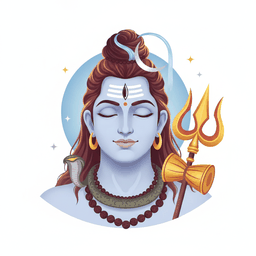
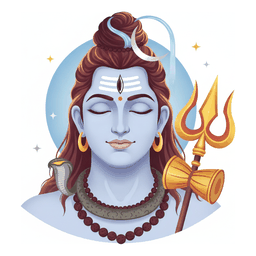
Rebuild home against the shipping Bizzing Bee, and add generated art
I had been designing against design-pack/*.png and the repo's spellbound-app,
both of which are weeks stale — the "Choose a world" step I copied has since
been dropped. bizzingbee.com is blocked by this environment's egress policy,
but origin/gh-pages of the Bizzing-Bee repo is the deployed build, so I ran
that and rendered its real home.

Patterns taken (adapted, not copied):
- a compact status row instead of three equal cards: greeting with the buddy
  actually saying something, a multi-metric goal card, and a rotating nugget
- two large journey cards with full-bleed painted headers, a corner chip and a
  progress pill — the strongest device on their home and the one I had missed
- a tip card and a quotation card underneath
- a corner notch as a signature detail

Contextualised rather than cloned: "word of the hour" becomes Shabd of the
hour, a Devanagari word with transliteration, meaning and audio. Their
honeycomb notch becomes a marigold. The two journeys are Under the Banyan and
The Great Forgetting. The quotation slot carries subhashitas and regional
proverbs with attribution. Mithu's tip pushes the child to ask a grown-up
which version their family tells — the family loop from docs/01.

Art: 48 Gemini-generated avatars at 256px (1.3 MB total) replacing the
hand-coded SVGs, which stay as the fallback path. Four painted banners,
letterboxed and compressed to ~100 KB each. Generator and prompts are in
[…]

diff --git a/app/app.js b/app/app.js
@@ -180,53 +180,109 @@
   };
 
   /* -------------------------------------------------------------- DASHBOARD */
+  /* rotating nuggets — a word and a subhashita, picked by the hour so the page
+     changes through the day without any server */
+  var SHABD = [
+    ['नमस्ते', 'namaste', 'hello — "I bow to you"', 'hi/w-namaste'],
+    ['दोस्त', 'dost', 'friend', 'hi/w-dost'],
+    ['समुद्र', 'samudra', 'the sea', 'hi/w-samudra'],
+    ['कहानी', 'kahani', 'a story', 'hi/w-kahani'],
+    ['याद', 'yaad', 'memory — the thing this whole app is about', 'hi/w-yaad'],
+    ['रोशनी', 'roshni', 'light', 'hi/w-roshni']
+  ];
+  var SUBHASHITA = [
+    ['A book, a mind and a friend are three things that grow only by being opened.', 'Sanskrit subhashita tradition'],
+    ['Drop by drop, the pot is filled.', 'Hindi proverb — बूँद बूँद से घड़ा भरता है'],
+    ['The one who walks slowly still arrives.', 'Tamil proverb'],
+    ['A guest is God.', 'Taittiriya Upanishad — अतिथि देवो भव']
+  ];
+
   V.home = function () {
     var lit = Object.keys(S.lit).length, readN = Object.keys(S.read).length;
     var lv = level(), pct = Math.min(100, Math.round(((S.xp % 60) / 60) * 100));
-    var goalPct = Math.min(100, Math.round((S.todayCount / S.goal) * 100));
     var hour = new Date().getHours();
     var greet = hour < 12 ? 'Good morning' : hour < 17 ? 'Good afternoon' : 'Good evening';
+    var wordsN = Object.keys(S.lang).reduce(function (n, k) { return n + (S.lang[k].correct || 0); }, 0);
+    var w = SHABD[hour % SHABD.length], q = SUBHASHITA[hour % SUBHASHITA.length];
+    var hello = ['“Chalo — one story and a whole state wakes up.”',
+                 '“I remember every single thing. Come and see.”',
+                 '“The mist is thinner than yesterday. That was you.”'][new Date().getDate() % 3];
 
-    return '<div class="grid g2" style="grid-template-columns:1.1fr 1fr 1.2fr;margin-bottom:var(--space-lg)">' +
-      /* greeting */
-      '<div class="card" style="margin:0"><div class="row" style="flex-wrap:nowrap">' +
-        art(S.buddy, 76) +
-        '<div><div class="tiny muted">' + greet + ',</div>' +
-        '<h2 style="margin:0 0 8px">' + esc(S.name || 'Yatri') + '</h2>' +
-        '<span class="pill stat">🪔 ' + S.streak.count + '-day streak</span> ' +
-        '<span class="pill stat">' + esc(rank()) + ' · Lv ' + (lv + 1) + '</span>' +
-        '</div></div></div>' +
-      /* daily goal */
-      '<div class="card center" style="margin:0">' +
-        '<div class="mono">Today’s goal</div>' +
-        '<div style="font-family:var(--display);font-size:38px;font-weight:900;line-height:1.1;margin:6px 0">' +
-          S.todayCount + '<span class="muted" style="font-size:20px">/' + S.goal + '</span></div>' +
-        '<div class="bar" style="margin:10px 0"><i style="width:' + goalPct + '%"></i></div>' +
-        '<button class="btn block" data-act="go" data-v="stories">Continue →</button>' +
+    function metric(colour, label, now, of) {
+      return '<div class="metric"><i style="background:' + colour + '"></i>' + label +
+        '<b>' + now + '<span class="muted">/' + of + '</span></b></div>';
+    }
+
+    return '<div class="statrow" style="margin-bottom:var(--space-lg)">' +
+      /* greeting + the buddy actually says something */
+      '<div class="card notch" style="margin:0"><div class="row" style="flex-wrap:nowrap;align-items:flex-start">' +
+        art(S.buddy, 72) +
+        '<div style="flex:1"><div class="tiny muted">' + greet + ',</div>' +
+        '<h2 style="margin:0 0 10px">' + esc(S.name || 'Yatri') + '</h2>' +
+        '<div class="bubble">' + esc(hello) + '</div></div></div></div>' +
+
+      /* daily goal, several metrics at once */
+      '<div class="card notch" style="margin:0">' +
+        '<h3 style="margin:0 0 12px">Today’s goal</h3>' +
+        metric('var(--accent3)', 'Stories', S.todayCount, S.goal) +
+        metric('var(--good)', 'Places lit', lit, 34) +
+        metric('var(--accent)', 'Words', wordsN, 20) +
+        '<div class="bar" style="margin-top:12px"><i style="width:' +
+          Math.min(100, Math.round(S.todayCount / S.goal * 100)) + '%"></i></div>' +
+        '<div class="tiny muted" style="margin-top:8px">🪔 ' + S.streak.count + '-day streak · ' +
+        esc(rank()) + ' · Lv ' + (lv + 1) + '</div>' +
       '</div>' +
-      /* streak */
-      '<div class="card" style="margin:0">' +
-        '<div class="spread"><div><div class="mono">Diya streak</div>' +
-        '<h2 style="margin:2px 0 0">' + S.streak.count + ' day' + (S.streak.count === 1 ? '' : 's') + '</h2></div>' +
-        '<div class="tiny muted center">Next reward<br><b>7 days</b></div></div>' +
-        '<div class="streak" style="margin-top:12px">' +
-          Array.apply(null, Array(7)).map(function (_, i) {
-            return '<i class="' + (i < Math.min(7, S.streak.count) ? 'lit' : '') + '">🪔</i>';
-          }).join('') + '</div>' +
+
+      /* shabd of the hour — our version of "word of the hour" */
+      '<div class="card tint notch" style="margin:0">' +
+        '<div class="mono">Shabd of the hour</div>' +
+        '<div class="deva" style="font-family:var(--deva);font-size:34px;font-weight:700;line-height:1.3">' + esc(w[0]) + '</div>' +
+        '<div class="mono" style="text-transform:none">/ ' + esc(w[1]) + ' /</div>' +
+        '<p class="tiny" style="margin:8px 0 10px">' + esc(w[2]) + '</p>' +
+        '<button class="pill" data-act="say" data-k="' + esc(w[3]) + '">' + icon('sound', 16) + ' hear it</button>' +
       '</div></div>' +
 
-      /* keep going */
-      '<h3 style="margin:22px 0 12px">Keep going</h3>' +
-      '<div class="grid g2">' +
-        [['stories', 'The Story Tree', readN + ' of 11 read', 'Panchatantra, Akbar &amp; Birbal, and the great stories — told with a choice in the middle.', Math.round(readN / 11 * 100)],
-         ['map', 'The Living Map', lit + ' of 34 lit', 'Every story you finish lifts the mist off the place it came from.', Math.round(lit / 34 * 100)],
-         ['bhasha', 'Bhasha', 'Hindi · Punjabi', 'Real script from day one, on one engine that will take every Indian language.', 0],
-         ['mela', 'The Mela', '4 stalls open', 'Rangoli Rush, State Hunt, Festival Frenzy and Jataka Jump.', 0]]
+      /* the two big illustrated journeys */
+      '<div class="grid g2" style="grid-template-columns:1fr 1fr">' +
+        '<button class="journey" data-act="go" data-v="stories">' +
+          '<div class="banner" style="background-image:url(art/banner/stories.jpg)">' +
+            '<span class="chip">' + icon('tree', 20) + '</span>' +
+            '<span class="tag">' + readN + ' of 11 told</span></div>' +
+          '<div class="body"><div class="tiny muted">Next on your yatra</div>' +
+          '<h2 style="margin:2px 0 6px">Under the Banyan</h2>' +
+          '<p class="tiny" style="margin:0 0 14px">Panchatantra · Akbar &amp; Birbal · the great stories — each one with a choice to make in the middle.</p>' +
+          '<span class="btn">' + icon('play', 18) + ' Tell me one</span></div></button>' +
+
+        '<button class="journey" data-act="go" data-v="map">' +
+          '<div class="banner" style="background-image:url(art/banner/map.jpg)">' +
+            '<span class="chip">' + icon('map', 20) + '</span>' +
+            '<span class="tag">' + lit + ' of 34 remembered</span></div>' +
+          '<div class="body"><div class="tiny muted">Your long journey</div>' +
+          '<h2 style="margin:2px 0 6px">The Great Forgetting</h2>' +
+          '<p class="tiny" style="margin:0 0 14px">Vismriti is eating India’s memory. Every story you finish pushes the grey back off one more place.</p>' +
+          '<div class="bar"><i style="width:' + Math.round(lit / 34 * 100) + '%"></i></div></div></button>' +
+      '</div>' +
+
+      /* the two nugget cards */
+      '<div class="grid g2" style="grid-template-columns:1fr 1fr;margin-top:var(--space-lg)">' +
+        '<div class="card notch"><div class="mono">Today’s tip from Mithu</div>' +
+          '<div class="row" style="flex-wrap:nowrap;margin-top:8px">' +
+          '<p class="tiny" style="flex:1;margin:0">Ask a grown-up which of these stories <i>they</i> were told as a child. ' +
+          'Nearly every family tells them a little differently — and their version is the one worth knowing.</p>' +
+          mascot('mithu', 'talk', 62) + '</div></div>' +
+        '<div class="card tint notch"><div class="mono">Subhashita of the hour</div>' +
+          '<p style="font-family:var(--display);font-size:18px;font-style:italic;margin:8px 0 6px">“' + esc(q[0]) + '”</p>' +
+          '<div class="tiny muted">— ' + esc(q[1]) + '</div></div>' +
+      '</div>' +
+
+      /* the rest of the map */
+      '<div class="grid g2" style="margin-top:var(--space-lg)">' +
+        [['bhasha', 'Bhasha', 'Hindi · Punjabi', 'Real script from day one, on one engine that will take every Indian language.'],
+         ['mela', 'The Mela', '4 stalls open', 'Rangoli Rush, State Hunt, Festival Frenzy and Jataka Jump.']]
         .map(function (c) {
           return '<button class="tile" data-act="go" data-v="' + c[0] + '">' +
             '<div class="spread"><h3 style="margin:0">' + c[1] + '</h3><span class="pill stat tiny">' + c[2] + '</span></div>' +
-            '<p class="tiny" style="margin:8px 0 12px">' + c[3] + '</p>' +
-            '<div class="bar"><i style="width:' + c[4] + '%"></i></div></button>';
+            '<p class="tiny" style="margin:8px 0 0">' + c[3] + '</p></button>';
         }).join('') +
       '</div>' +
 

diff --git a/app/app.css b/app/app.css
@@ -201,6 +201,61 @@ button, input, select, textarea { font: inherit; color: inherit; }
 .dots i { width: 8px; height: 8px; border-radius: 50%; background: var(--line2); }
 .dots i.on { background: var(--accent); }
 
+/* ----------------------------------------------------- dashboard cards */
+/* the small status row */
+.statrow { display: grid; grid-template-columns: 1.15fr 1fr 1.25fr; gap: var(--space-lg); }
+@media (max-width: 900px) { .statrow { grid-template-columns: 1fr; } }
+
+/* a warm-tinted card, for the nugget slots */
+.tint { background: linear-gradient(180deg, #fdf6e8, var(--card)); border-color: #f0e0bd; }
+[data-mode="night"] .tint { background: var(--card2); border-color: var(--line2); }
+
+/* the corner notch — Bizzing Bee uses a honeycomb; ours is a marigold dot */
+.notch { position: relative; overflow: visible; }
+.notch::after {
+  content: ''; position: absolute; top: -7px; right: 20px;
+  width: 16px; height: 16px; border-radius: 50% 50% 50% 0;
+  background: var(--accent2); transform: rotate(-45deg);
+  box-shadow: 0 2px 6px rgba(30,20,70,.18);
+}
+
+/* speech bubble from the buddy */
+.bubble {
+  position: relative; background: var(--card2); border: 1px solid var(--line);
+  border-radius: var(--radius-md); padding: 11px 14px; font-size: 14px; font-style: italic; color: var(--text2);
+}
+.bubble::before {
+  content: ''; position: absolute; left: -7px; top: 16px; width: 12px; height: 12px;
+  background: var(--card2); border-left: 1px solid var(--line); border-bottom: 1px solid var(--line);
+  transform: rotate(45deg);
+}
+
+/* multi-metric goal rows */
+.metric { display: flex; align-items: center; gap: 9px; font-size: 13.5px; margin-bottom: 7px; }
+.metric b { margin-left: auto; font-variant-numeric: tabular-nums; }
+.metric i { width: 9px; height: 9px; border-radius: 50%; flex: none; }
+
+/* the big journey cards with a painted header */
+.journey {
+  display: block; width: 100%; text-align: left; padding: 0; overflow: hidden;
+  background: var(--card); border: 1px solid var(--line); border-radius: var(--radius-xl);
+  box-shadow: var(--shadow); cursor: pointer; transition: transform .15s, box-shadow .15s;
+}
+.journey:hover { transform: translateY(-3px); box-shadow: var(--shadow-lg); }
+.journey .banner { position: relative; height: 172px; background: var(--card2); background-size: cover; background-position: center; }
+.journey .banner::after { content: ''; position: absolute; inset: 0; background: linear-gradient(180deg, rgba(0,0,0,.10), rgba(0,0,0,.02)); }
+.journey .tag {
+  position: absolute; top: 14px; right: 14px; z-index: 2;
+  background: rgba(20,12,45,.82); color: #fff; font-size: 12px; font-weight: 700;
+  padding: 6px 13px; border-radius: var(--radius-pill);
+}
+.journey .chip {
+  position: absolute; top: 14px; left: 14px; z-index: 2;
+  width: 38px; height: 38px; border-radius: 12px; display: grid; place-items: center;
+  background: var(--accent); color: #fff;
+}
+.journey .body { padding: var(--space-lg) var(--space-xl) var(--space-xl); }
+
 /* --------------------------------------------------------------- ladder */
 .ladder { display: flex; gap: 10px; overflow-x: auto; padding-bottom: 6px; scrollbar-width: none; }
 .ladder::-webkit-scrollbar { display: none; }

diff --git a/app/art-manifest.js b/app/art-manifest.js
@@ -1,1 +1,18 @@
-window.IND_ART_IMG = [];
+/* Bizzing India — art manifest. GENERATED by tools/gen-avatars.py; do not hand-edit.
+   Ids listed here have a real raster avatar at app/art/<id>.png (256x256).
+   Anything not listed falls back to the inline SVG in app/avatars.js. */
+
+window.IND_ART_IMG = [
+  'ganesha','krishna','hanuman','durga','saraswati','shiva',
+  'rama','lakshmi','buddha','mahavira','khanda','harmandir',
+  'pt_lion','pt_jackal','pt_bull','pt_crow','pt_tortoise','pt_mouse',
+  'pt_deer','pt_crocodile','pt_monkey','pt_rabbit','pt_heron','pt_elephant',
+  'akbar','birbal','tansen','courtier','guard','royal_elephant',
+  'ashoka','chanakya','shivaji','lakshmibai','gandhi','ambedkar',
+  'bhagat','kalam','aryabhata','tagore','kalpana','sarojini',
+  'gattu','gattu_happy','gattu_think','gattu_wow','mithu','vismriti'
+];
+
+window.IND_ART_SRC = function (id) {
+  return window.IND_ART_IMG.indexOf(id) < 0 ? '' : 'art/' + id + '.png';
+};

diff --git a/tools/gen-avatars.py b/tools/gen-avatars.py
@@ -68,17 +68,33 @@ def call_api(prompt, key):
 
 # ------------------------------------------------------------------ images
 
-def to_tile(png_bytes):
-    """Square, white-matted, 256x256, palette-optimised PNG bytes."""
-    im = Image.open(io.BytesIO(png_bytes))
-    im = im.convert("RGBA")
+MARGIN = 0.05        # share of the tile left as white air around the subject
 
-    # square it off on white (the source is normally already square)
-    side = max(im.size)
-    canvas = Image.new("RGBA", (side, side), (255, 255, 255, 255))
-    canvas.paste(im, ((side - im.width) // 2, (side - im.height) // 2), im)
-    flat = Image.new("RGB", (side, side), (255, 255, 255))
-    flat.paste(canvas, (0, 0), canvas)
+
+def to_tile(png_bytes):
+    """Square, white-matted, auto-trimmed, 256x256, palette-optimised PNG bytes.
+
+    The model leaves an unpredictable amount of white air around the subject, which
+    makes the set look ragged in a grid. Trimming to the ink and re-matting with a
+    fixed margin is what makes every tile sit at the same visual weight.
+    """
+    im = Image.open(io.BytesIO(png_bytes)).convert("RGBA")
+    flat = Image.new("RGB", im.size, (255, 255, 255))
+    flat.paste(im, (0, 0), im)
+
+    # trim the white surround (245 keeps soft shadows and pale sparkles in)
+    mask = flat.convert("L").point(lambda v: 255 if v < 245 else 0)
+    box = mask.getbbox()
+    if box:
+        w, h = box[2] - box[0], box[3] - box[1]
+        # ignore a degenerate trim (a stray speck, or an image that is nearly all ink)
+        if w > im.width * 0.2 and h > im.height * 0.2:
+            flat = flat.crop(box)
+
+    side = int(max(flat.size) * (1 + 2 * MARGIN))
+    canvas = Image.new("RGB", (side, side), (255, 255, 255))
+    canvas.paste(flat, ((side - flat.width) // 2, (side - flat.height) // 2))
+    flat = canvas
 
     flat = flat.resize((SIZE, SIZE), Image.LANCZOS)
     pal = flat.quantize(colors=192, method=Image.MEDIANCUT, dither=Image.NONE)
@@ -140,7 +156,22 @@ def main():
     ap.add_argument("prompts", help="JSON file of {id: prompt}")
     ap.add_argument("--only", default="", help="comma-separated ids")
     ap.add_argument("--force", action="store_true", help="regenerate existing")
+    ap.add_argument("--reprocess", action="store_true",
+                    help="rebuild tiles from the cached raws, no API calls")
     args = ap.parse_args()
+
+    if args.reprocess:
+        n = 0
+        for f in sorted(os.listdir(RAW_DIR)):
+            if not f.endswith(".png"):
+                continue
+            with open(os.path.join(RAW_DIR, f), "rb") as fh:
+                tile = to_tile(fh.read())
+            with open(os.path.join(OUT_DIR, f), "wb") as fh:
+                fh.write(tile)
+            n += 1
+        print("reprocessed %d tiles" % n)
+        return 0
 
     key = os.environ.get("GEMKEY") or os.environ.get("GEMINI_API_KEY")
     if not key:
